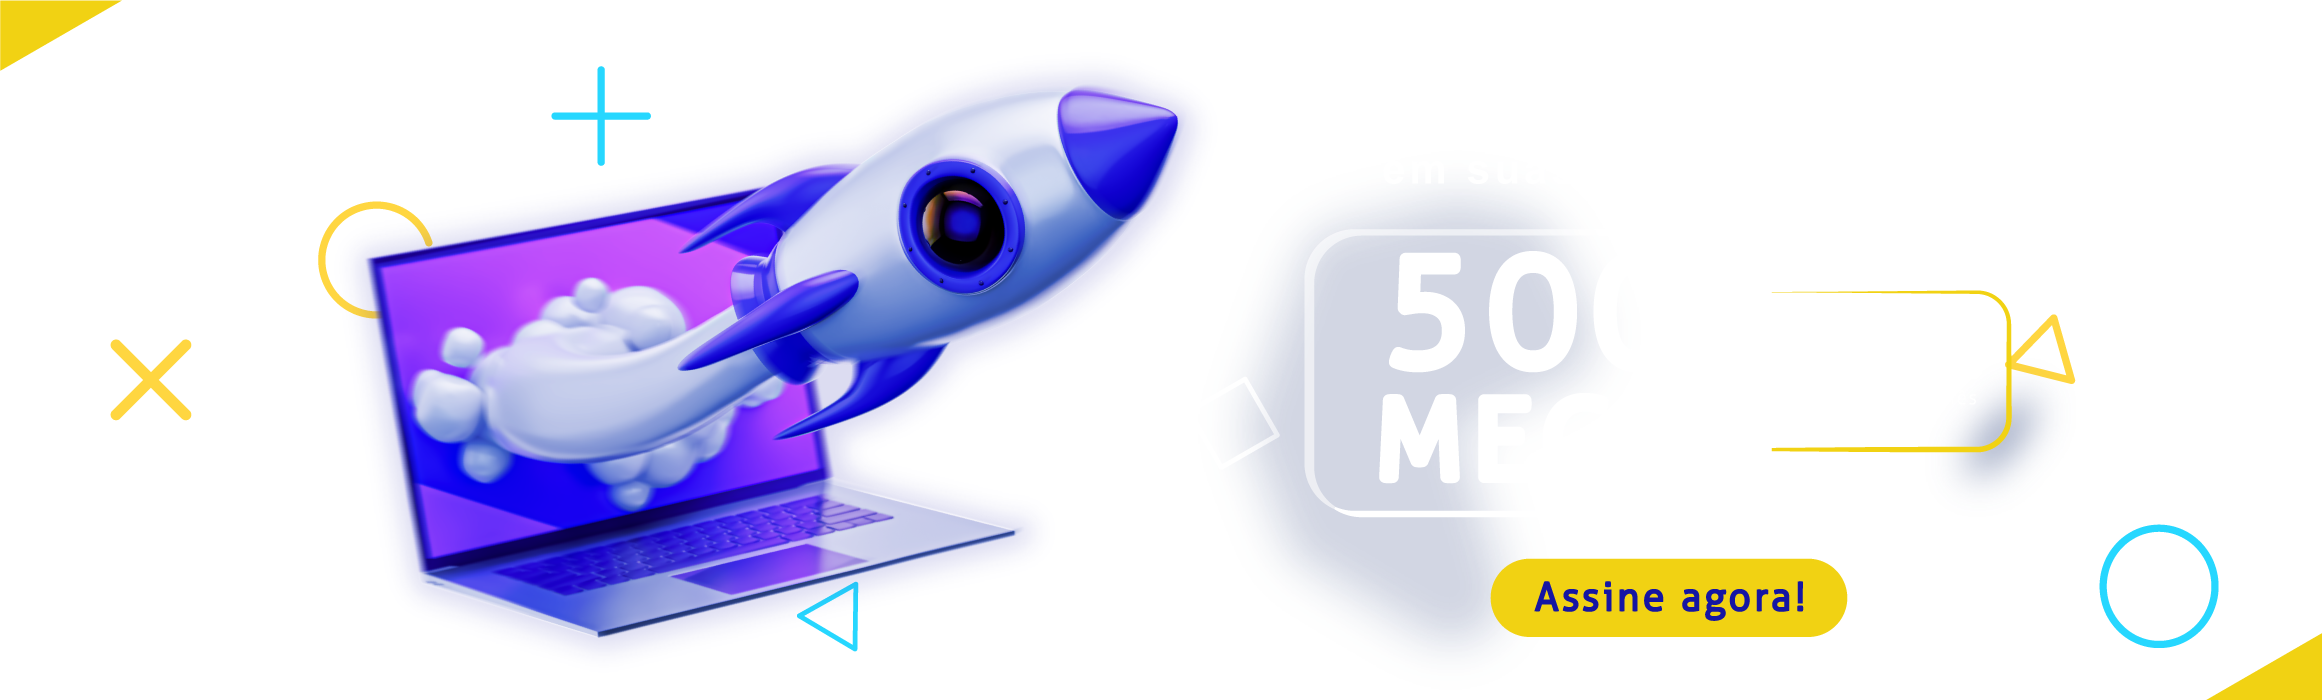
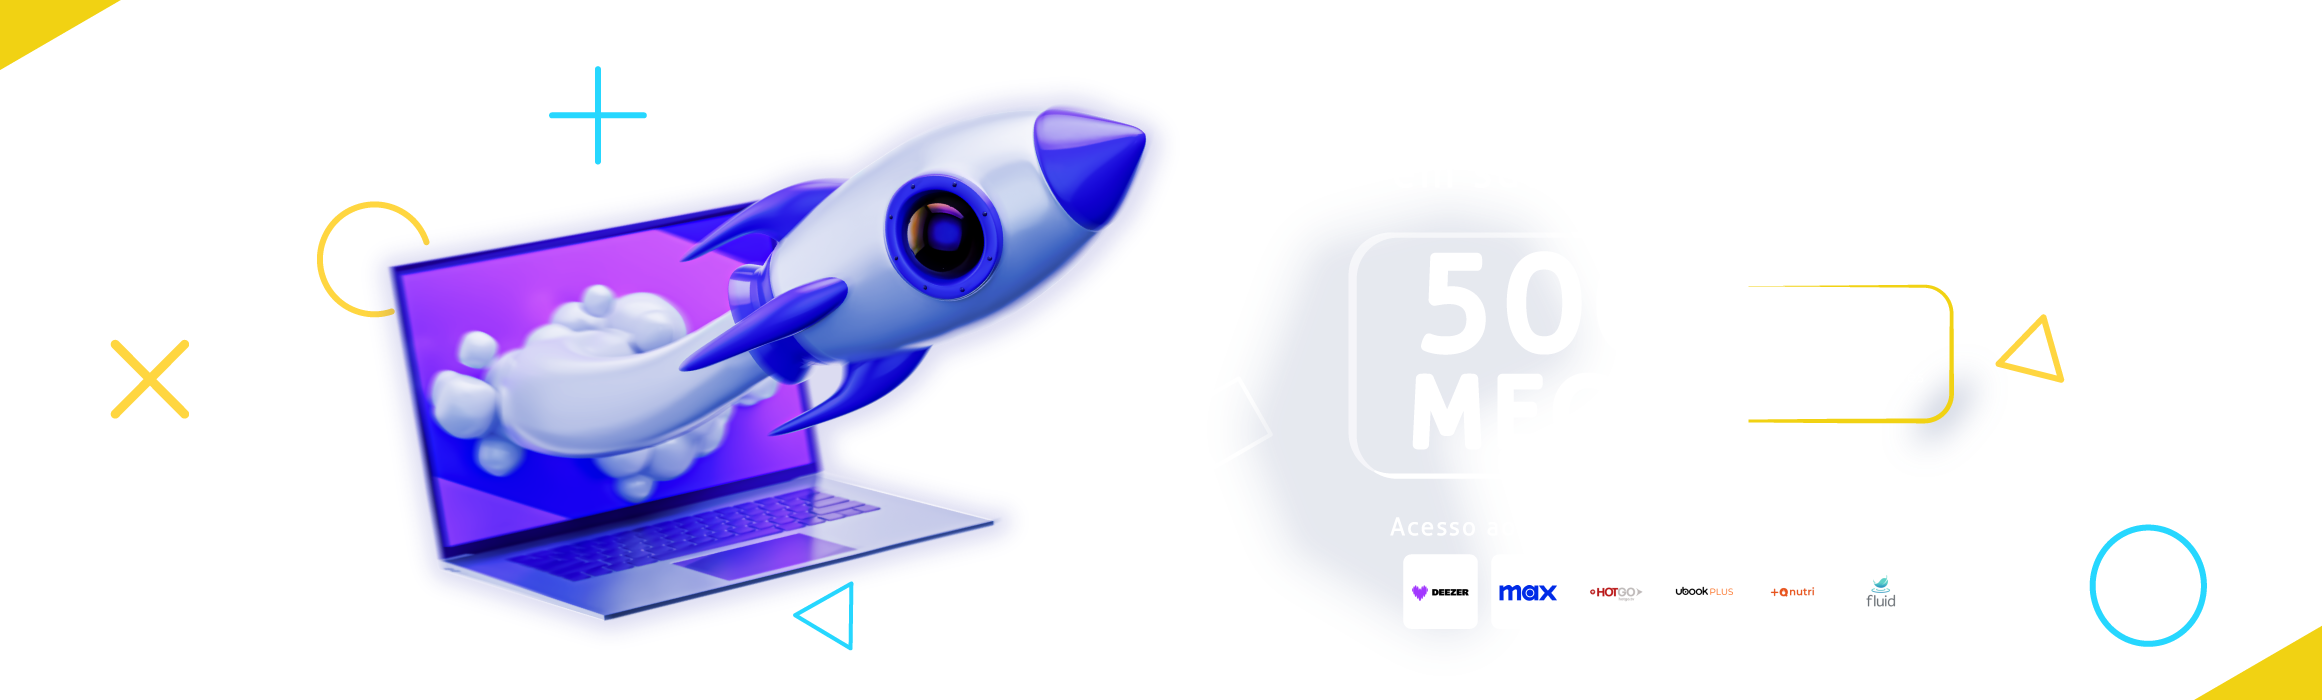
update

diff --git a/index.html b/index.html
@@ -832,25 +832,21 @@ display: inline-block;
 <div class="slide-container">
 <img src="./assets/bg-slide-one_.png" alt="Slide 1" class="slide" style="display: block;">
 <img src="./assets/bg-slide-two_.png" alt="Slide 2" class="slide" style="display: none;">
-<img src="./assets/bg-slide-one_.png" alt="Slide 3" class="slide" style="display: none;">
-<img src="./assets/bg-slide-two_.png" alt="Slide 4" class="slide" style="display: none;">
-<img src="./assets/bg-slide-one_.png" alt="Slide 5" class="slide" style="display: none;">
+<img src="./assets/bg-slide-three_.png" alt="Slide 3" class="slide" style="display: none;">
 </div>
 
 <div class="slide-container-hidden">
 <img src="./assets/bg-quadro1.png" alt="Slide 1" class="slide-hidden" style="display: block;">
 <img src="./assets/bg-quadro2.png" alt="Slide 2" class="slide-hidden" style="display: none;">
 <img src="./assets/bg-quadro1.png" alt="Slide 3" class="slide-hidden" style="display: none;">
-<img src="./assets/bg-quadro2.png" alt="Slide 4" class="slide-hidden" style="display: none;">
-<img src="./assets/bg-quadro1.png" alt="Slide 5" class="slide-hidden" style="display: none;">
+
 </div>
 
 <div class="slide-progress">
     <div class="slide-indicator active"></div>
     <div class="slide-indicator"></div>
     <div class="slide-indicator"></div>
-    <div class="slide-indicator"></div>
-    <div class="slide-indicator"></div>
+    
 </div>
 
 <!-- Início da Seção de Informações -->
